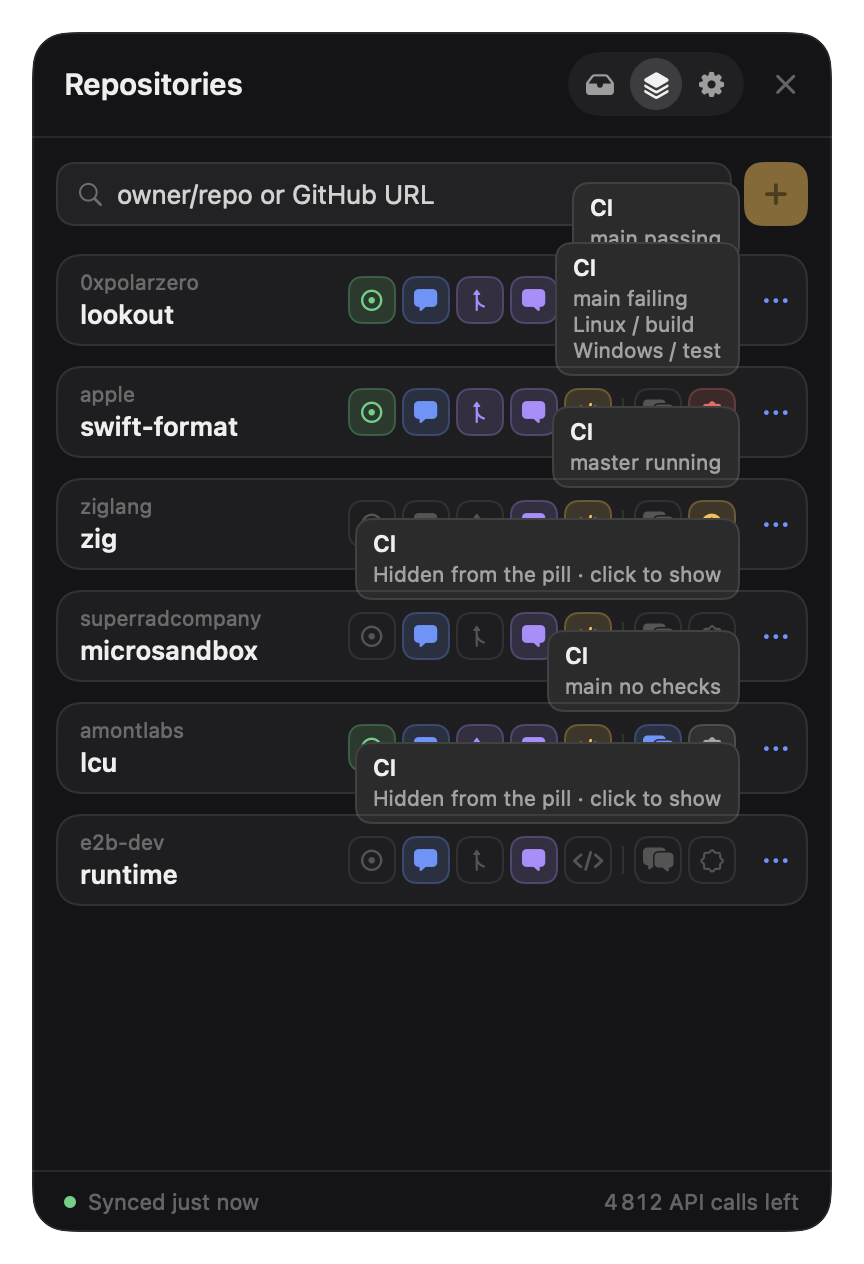
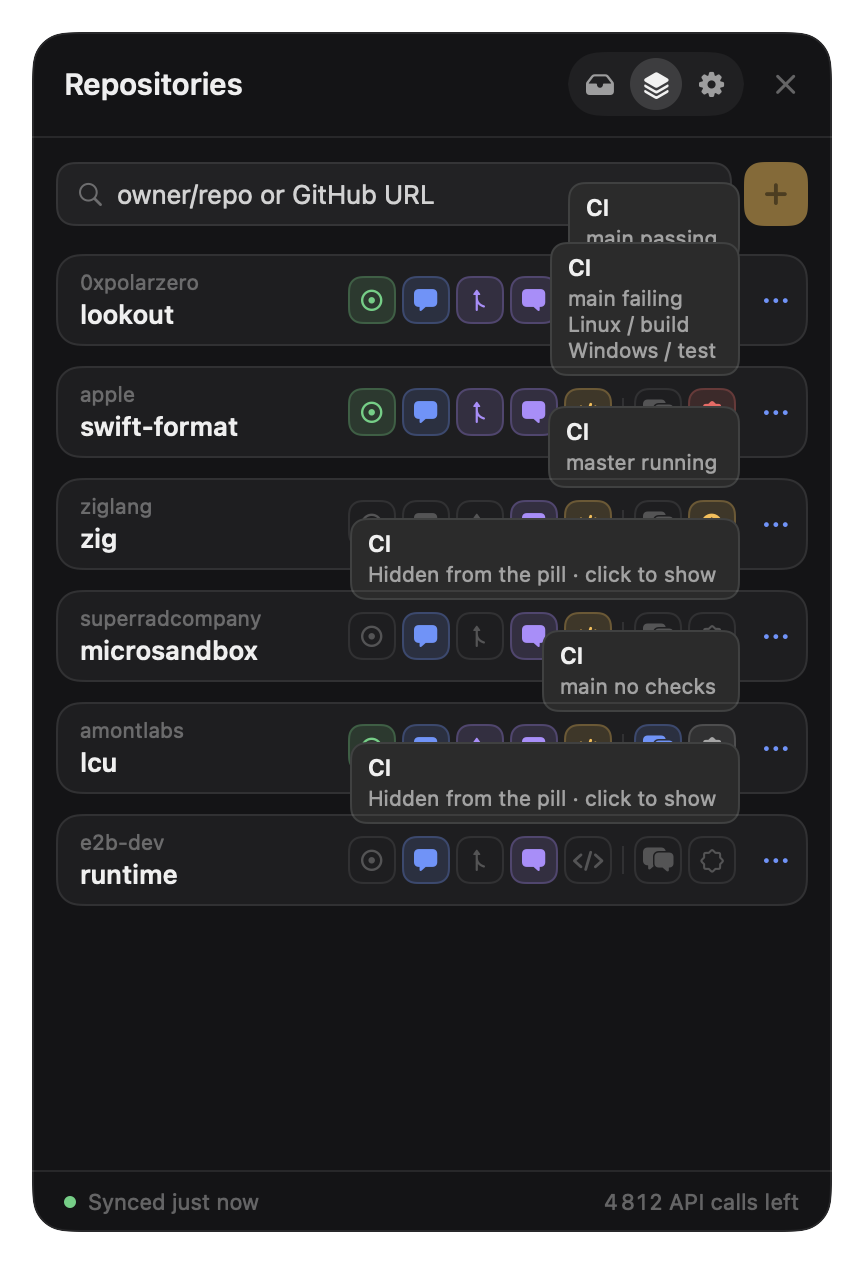
feat: Tooltip: size bubble to wrapped text

diff --git a/Sources/Lookout/Theme.swift b/Sources/Lookout/Theme.swift
@@ -223,6 +223,13 @@ private struct Tip: ViewModifier {
             .zIndex(shown ? 10 : 0)
     }
 
+    /// Natural width of the widest line, capped so long details wrap instead of stretching the bubble.
+    private static func width(of text: String) -> CGFloat {
+        let font = NSFont.systemFont(ofSize: 10.5)
+        let widest = text.split(separator: "\n").map { (String($0) as NSString).size(withAttributes: [.font: font]).width }.max() ?? 0
+        return min(ceil(widest) + 2, 210)
+    }
+
     private var bubble: some View {
         VStack(alignment: .leading, spacing: 2) {
             Text(title).font(.system(size: 11.5, weight: .semibold)).foregroundStyle(Theme.text)
@@ -230,7 +237,7 @@ private struct Tip: ViewModifier {
                 Text(detail)
                     .font(.system(size: 10.5))
                     .foregroundStyle(Theme.secondary)
-                    .frame(maxWidth: 210, alignment: .leading)
+                    .frame(width: Self.width(of: detail), alignment: .leading)
                     .fixedSize(horizontal: false, vertical: true)
             }
         }
